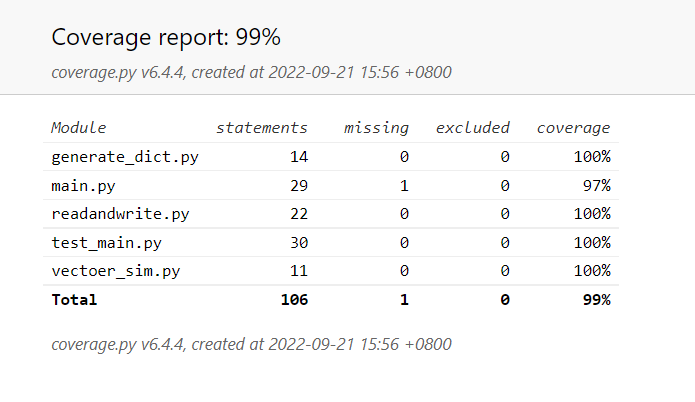
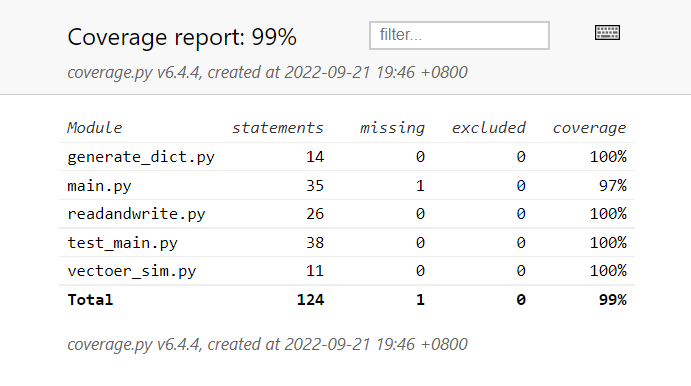
完善异常处理、文件编码、单元测试

diff --git a/test_main.py b/test_main.py
@@ -8,24 +8,38 @@ from readandwrite import *
 from generate_dict import *
 
 
-def test_load():
-    assert load('测试样例\空文件.txt') == 0
+def test_load_empty():
+    assert load(r'测试样例\空文件.txt') == 0
+
+def test_load_coding_1():
+    assert load(r'测试样例\正常_GBK.txt')
+
+def test_load_coding_2():
+    assert load(r'测试样例\正常.png') == -1
+
+def test_output_writable():
+    assert output(r'测试样例\ans_只读.txt', r'只读测试') == -1
 
 
-def test_lack():
-    assert main(['main.py', '测试样例\正常.txt', 'ans.txt']) == -1
+def test_main_lack():
+    assert main(['main.py', r'测试样例\正常.txt', r'ans.txt']) == -1
 
+def test_main_nonexist_1():
+    assert main(['main.py', r'测试样例\不存在.txt',
+                r'测试样例\空文件.txt', r'ans.txt']) == -2
 
-def test_nonexist_1():
-    assert main(['main.py', '测试样例\不存在.txt', '测试样例\空文件.txt', 'ans.txt']) == -2
+def test_nonexist_main_2():
+    assert main(['main.py', r'测试样例\正常.txt', r'测试样例\不存在.txt', r'ans.txt']) == -2
 
+def test_main_empty():
+    assert main(['main.py', r'测试样例\正常.txt', r'测试样例\空文件.txt', r'ans.txt']) == -3
 
-def test_nonexist_2():
-    assert main(['main.py', '测试样例\正常.txt', '测试样例\不存在.txt', 'ans.txt']) == -2
+def test_main_coding():
+    assert main(['main.py', r'测试样例\正常.txt', r'测试样例\正常.png', r'ans.txt']) == -4
 
-
-def test_empty():
-    assert main(['main.py', '测试样例\正常.txt', '测试样例\空文件.txt', 'ans.txt']) == -3
+def test_main_writable():
+    assert main(['main.py', r'测试样例\正常.txt',
+                r'测试样例\正常.txt', r'测试样例\ans_只读.txt']) == -5
 
 
 def test_generate_dict():
@@ -33,7 +47,6 @@ def test_generate_dict():
     list2 = [1, 9, 1, 9, 8, 1, 0]
     assert generate_dict(list1, list2) == (
         {1: 3, 4: 2, 5: 1, 9: 0, 8: 0, 0: 0}, {1: 3, 4: 0, 5: 0, 9: 2, 8: 1, 0: 1})
-
 
 def test_similarity():
     list1 = [1, 1, 4, 5, 1, 4, 0]
@@ -44,7 +57,6 @@ def test_similarity():
 
 def test_main_copy():
     assert main(['main.py', '测试样例\正常.txt', '测试样例\正常.txt', 'ans.txt']) > 0.99
-
 
 def test_main_sim():
     assert abs(

diff --git a/readandwrite.py b/readandwrite.py
@@ -1,11 +1,26 @@
+# -*- coding: utf-8 -*-
+
 import re
 import jieba_fast as jieba
 
+# load(path)：读取文件，返回分词结果
+# 0：文件为空
+# -1：文件编码错误
+# output(path, ans)：将结果输出到文件
+# 0：成功
+# -1：写入失败
+
 def load(path):
     # 读取文件
-    f = open(r'%s' % path, mode='r', encoding='utf-8')
-    text = f.read()
-    f.close()
+    try:
+        with open(r'%s' % path, mode='r', encoding='utf-8') as f:
+            text = f.read()
+    except:
+        try:
+            with open(r'%s' % path, mode='r', encoding='gbk') as f:
+                text = f.read()
+        except:
+            return -1
     
     # 清理html格式、一部分标点符号、单独占据一行的无空格英文/符号字符串、中文中的空格
     text = re.sub(r'<.*?>', '', text, flags=re.S)
@@ -25,6 +40,9 @@ def load(path):
 
 # 格式化并输出结果
 def output(path, ans):
-    f = open(r'%s' % path, mode='w', encoding='utf-8')
-    f.write('%.2f' % ans)
-    f.close()
+    try:
+        with open(r'%s' % path, mode='w', encoding='utf-8') as f:
+            f.write('%.2f' % ans)
+    except:
+        return -1
+        

diff --git a/main.py b/main.py
@@ -7,6 +7,8 @@
 # -1：缺少参数
 # -2：文件不存在
 # -3：文件为空或无意义
+# -4：文件编码错误
+# -5：文件写入失败
 # 0~1：相似度
 
 
@@ -40,6 +42,10 @@ def main(a):
     if orig == 0 or check == 0:
         print('文件为空或无意义！')
         return -3
+    
+    if orig == -1 or check == -1:
+        print('请将文件另存为UTF-8或GBK编码！')
+        return -4
 
     orig_dict = dict()
     check_dict = dict()
@@ -50,8 +56,10 @@ def main(a):
     ans = similarity(list(orig_dict.values()), list(check_dict.values()))
 
     # print(ans)
-    output(a[3], ans)
-    print('相似度为：%.2f，结果已保存至%s' % (ans, a[3]))
+    if(output(a[3], ans) == -1):
+        print('相似度为：%.2f\n结果保存失败，请检查结果文件是否为只读！' % ans)
+        return -5
+    print('相似度为：%.2f，结果已保存至\"%s\"' % (ans, a[3]))
     return ans
 
 

diff --git a/set_sim.py b/set_sim.py
@@ -1,3 +1,5 @@
+# -*- coding: utf-8 -*-
+
 def jaccard_similarity(A: set, B: set):
     # 求集合 A 和集合 B 的交集
     nominator = A.intersection(B)

diff --git a/vectoer_sim.py b/vectoer_sim.py
@@ -1,3 +1,5 @@
+# -*- coding: utf-8 -*-
+
 import numpy as np
 
 

diff --git a/报告/个人项目作业-论文查重.md b/报告/个人项目作业-论文查重.md
@@ -84,14 +84,18 @@ def similarity(a_list: list, b_list: list):
 
 # 性能改进
 
+使用PyCharm作为性能分析工具
+
 ## 调用图
+
+![img](https://img-community.csdnimg.cn/images/22c125d32dd54632a33a383070123524.png "#left")
 
 ## 性能分析及改进
 
 从图中不难看出，耗时最多的是jieba.cut()。
 首先我使用正则对读入的文件进行预处理，将其html标签、无效的空字符等去除，减小jieba.cut()的负担。这么做有一定效果但并不明显。
 然后我注意到了jieba_fast库，于是我尝试将jieba库替换为jieba_fast库，发现性能提升了很多。
-需要注意的是，在Windows上使用jieba_fast库需要安装**MSVCv14x - VS C++ x64/x86生成工具**。
+需要注意的是，在Windows上使用jieba_fast库需要安装[Microsoft C++ 生成工具](https://visualstudio.microsoft.com/zh-hans/visual-cpp-build-tools/)。
 
 ## jieba.cut()和jieba_fast库
 
@@ -133,51 +137,52 @@ print(text)
 ```python
 设计一个论文查重算法。
 ```
+
+## 改进后的调用图
+
+![img](https://img-community.csdnimg.cn/images/c0d20ede25424b6990746f4a8de622df.png "#left")
+
 # 单元测试
 
-我是用pytest库进行单元测试。
+我使用pytest库进行单元测试。
 主要测试项目包括：
-1、主函数对3种异常情况的返回值
+1、主函数对参数数量不足、文件不存在、空文件、编码错误文件、只读文件的处理
+2、读取文件的函数对空文件和UTF-8编码、GBK编码、无法识别编码文件的处理
+3、写入文件的函数对只读文件的处理
+4、字典生成函数是否正常工作
+5、相似度计算函数是否正常工作
+
+## 覆盖率
+
+（图片）
+未覆盖的的部分如下，可以认为覆盖率是100%：
+
+```python
+if __name__ == '__main__':
+    main(sys.argv)
+```
 
 # 异常处理
 
-总共设计了3种异常。
+总共设计了5种异常。
 
 ## 1.参数数量不足
 
 可以直接判断sys.argv的长度，如果小于4，就抛出异常。
 
-```python
-a = sys.argv
-if len(a)<4:
-    print('缺少参数！')
-    print('格式(均为绝对路径)：\npython main.py [原文文件] [抄袭版论文的文件] [答案文件]')
-    return -1
-```
-
-![img](https://img-community.csdnimg.cn/images/710dc6c385f1448a83fe84aaf426d8e6.jpg "#left")
-
 ## 2.文件不存在
 
 使用os.path.exists()函数判断文件是否存在，如果不存在，就抛出异常。
-
-```python
-if not os.path.exists(a[1]):
-    print('原文文件不存在！')
-    return -2
-```
-
-![img](https://img-community.csdnimg.cn/images/fd64b4965e6c44e6a49acb8219fb8d9b.jpg "#left")
 
 ## 3.文件内容为空或无意义
 
 在使用正则函数处理文件内容后，如果文件内容为空，就抛出异常。
 
-```python
-if orig == 0 or check == 0:
-    print('文件为空或无意义！')
-    return -3
-```
+## 4.文件编码错误
 
-![img](https://img-community.csdnimg.cn/images/73b01e1fdc5647499834ffc778c81670.jpg "#left")
-![img](https://img-community.csdnimg.cn/images/643848b508ca4a8d98b105ca493c3aa5.jpg "#left")
+首先尝试使用UTF-8编码读取文件，如果出现异常，就尝试使用GBK编码读取文件，如果还是出现异常，就抛出异常。
+
+## 5.文件只读
+
+使用open()函数打开文件时，如果文件只读，就抛出异常。
+
